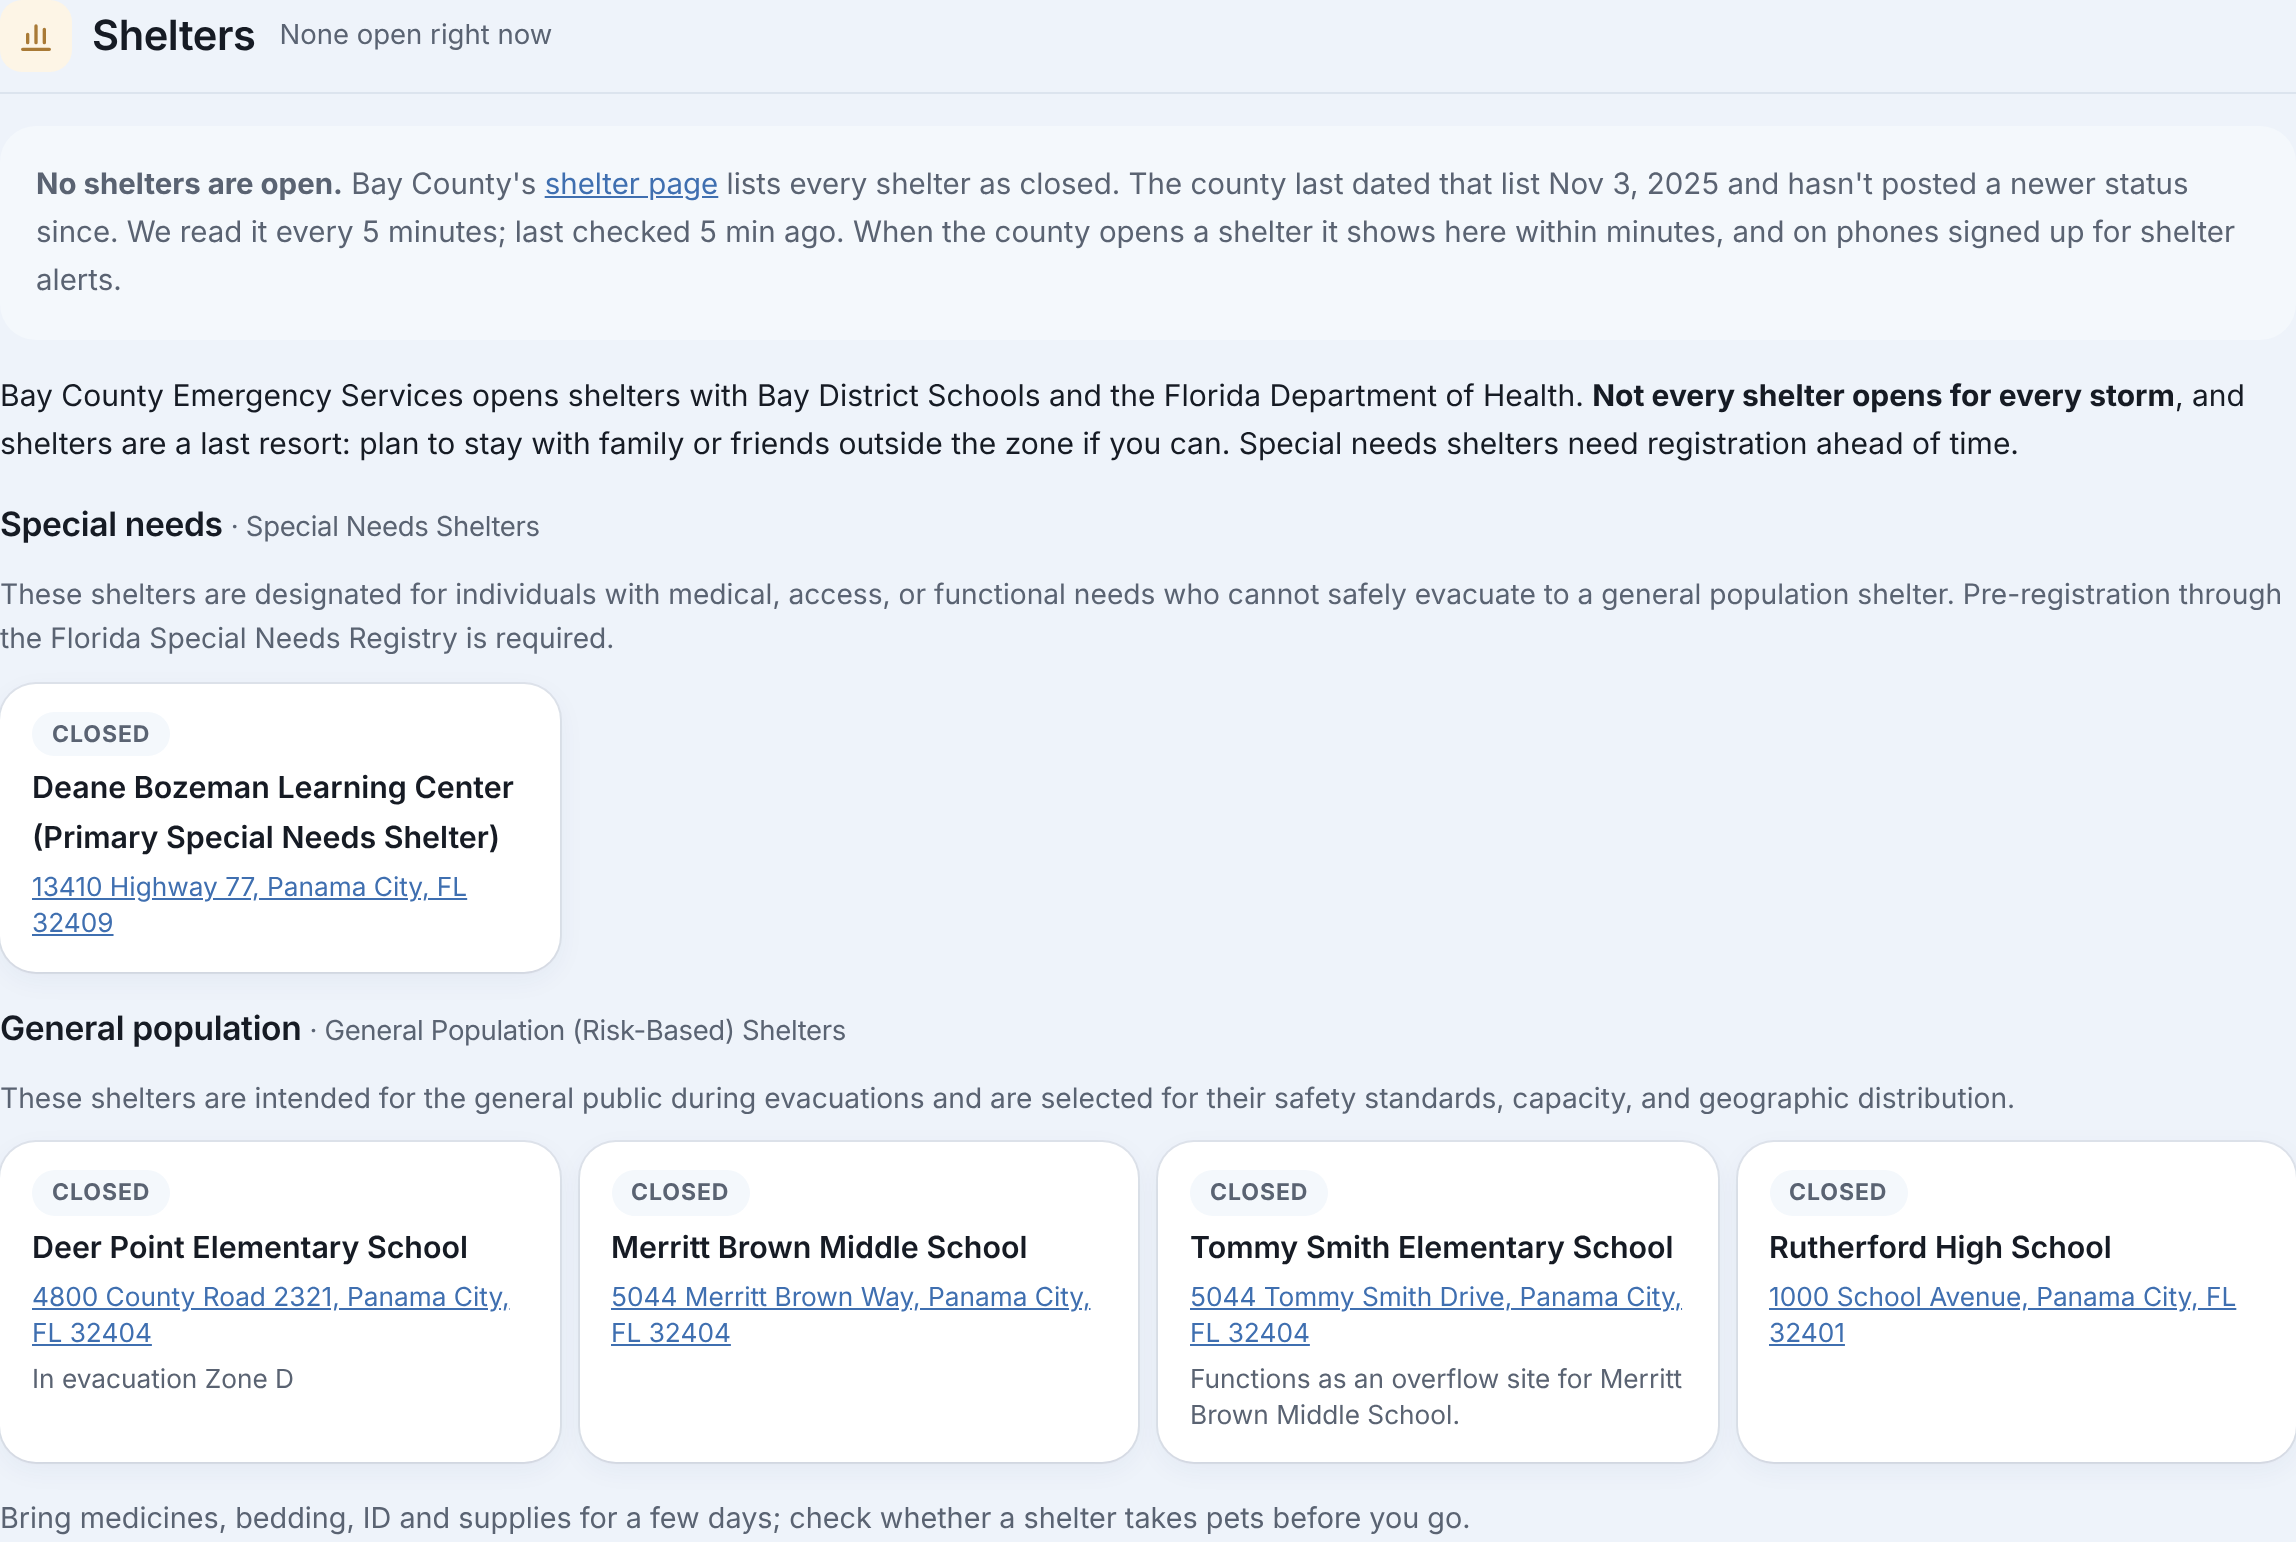
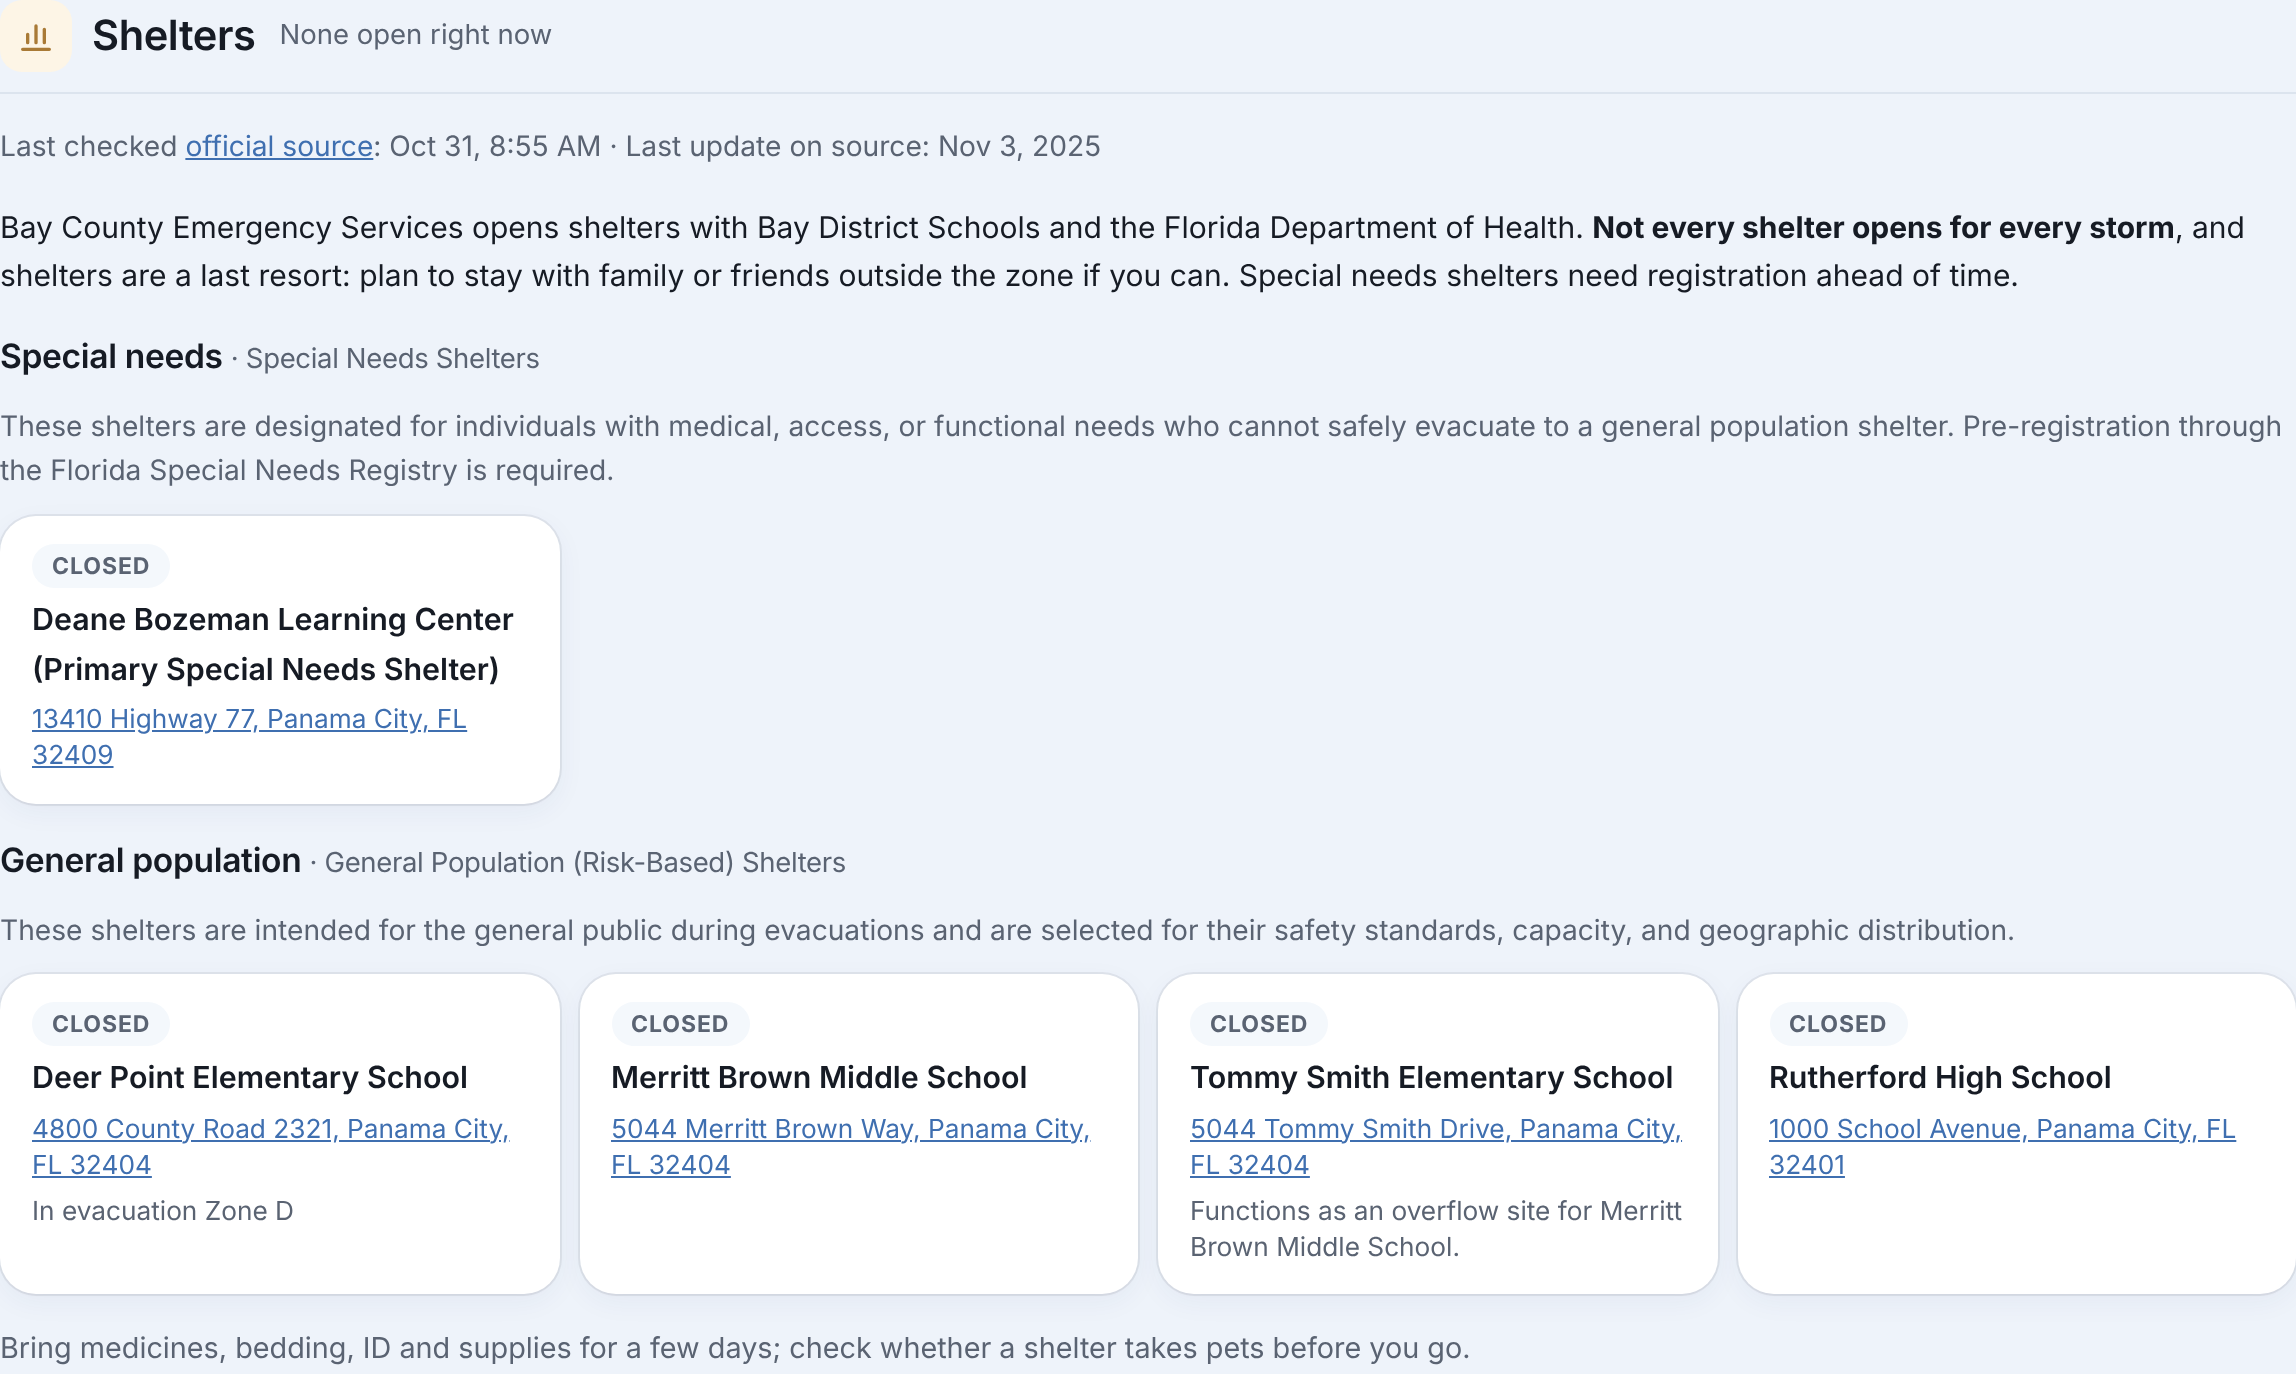
Shelters: shorten the status line to last checked / last update on source
Claude-Session: https://claude.ai/code/session_01HUBaQtrtvT3eSNBeuJmk81

diff --git a/site/public/emergency/index.html b/site/public/emergency/index.html
@@ -181,7 +181,7 @@
     <p class="note">Road closures cover state roads (FL511) and the closures cities post. City and county notices stay listed while their alert center lists them; news posts about storms and closures stay for 10 days.</p></section>
 
   <section class="tx-sec"><div class="sec-hd"><span class="ui-ti t-amber"><span class="ico i-chart" aria-hidden="true"></span></span><h2 id="shelters" data-tile="Shelters">Shelters</h2><span class="muted" id="shHead">None open right now</span></div>
-    <p class="em-empty" id="shLine"><b>No shelters are open.</b> Bay County's <a href="https://www.baycountyfl.gov/766/Emergency-Shelters" target="_blank" rel="noopener">shelter page</a> lists every shelter as closed. The county last dated that list Nov 3, 2025 and hasn't posted a newer status since. We read it every 5 minutes; last checked Oct 30, 2026. When the county opens a shelter it shows here within minutes, and on phones signed up for shelter alerts.</p>
+    <p class="muted" id="shLine" style="margin:0;font-size:.88rem">Last checked <a href="https://www.baycountyfl.gov/766/Emergency-Shelters" target="_blank" rel="noopener">official source</a>: Oct 30, 2026 · Last update on source: Nov 3, 2025</p>
     <p>Bay County Emergency Services opens shelters with Bay District Schools and the Florida Department of Health. <b>Not every shelter opens for every storm</b>, and shelters are a last resort: plan to stay with family or friends outside the zone if you can. Special needs shelters need registration ahead of time.</p>
     <div class="em-shg"><h3 class="ch-grp" style="margin:0">Special needs <span class="muted" style="font-weight:400;font-size:.86rem">· Special Needs Shelters</span></h3><p class=muted style=font-size:.88rem;margin:0>These shelters are designated for individuals with medical, access, or functional needs who cannot safely evacuate to a general population shelter. Pre-registration through the Florida Special Needs Registry is required.</p><div class="em-shs"><div class="em-sh" data-id="deane-bozeman-learning-center-primary-special-needs-shelter"><span class="em-pill">closed</span>
   <b>Deane Bozeman Learning Center (Primary Special Needs Shelter)</b><small><a href="https://www.google.com/maps/search/?api=1&amp;query=13410 Highway 77, Panama City, FL 32409" target="_blank" rel="noopener">13410 Highway 77, Panama City, FL 32409</a></small>
@@ -319,20 +319,12 @@
   function shelterLine(d) {
     const head = $('shHead'), line = $('shLine'), S = d.shelters || [];
     if (!head || !line || !S.length) return;
-    const src = `<a href="${esc(S[0].source_url)}" target="_blank" rel="noopener">shelter page</a>`;
-    const seen = ` We read it every 5 minutes; last checked ${ago(d.checked_at)}.`;
     const open = S.filter(s => s.status === 'open'), dates = S.map(s => s.status_as_of).filter(Boolean).sort();
-    if (!open.length) {
-      head.textContent = 'None open right now';
-      line.innerHTML = `<b>No shelters are open.</b> Bay County's ${src} lists every shelter as closed.` +
-        (dates.length ? ` The county last dated that list ${day(dates[dates.length - 1])} and hasn't posted a newer status since.` : '') + seen +
-        ' When the county opens a shelter it shows here within minutes, and on phones signed up for shelter alerts.';
-      return;
-    }
-    const od = open.map(s => s.status_as_of).filter(Boolean).sort(), old = od.filter(x => (Date.now() - Date.parse(x)) / 864e5 > STALE);
-    head.textContent = `${open.length} open`;
-    line.innerHTML = `<b>${open.length} shelter${open.length > 1 ? 's' : ''} open</b> on Bay County's ${src}, as of ${od.length ? day(od[od.length - 1]) : 'its last update'}.${seen}` +
-      (old.length ? ` The county's page has listed ${old.length > 1 ? 'these' : 'this'} as open since ${day(old[0])} without a newer update; call the Citizens Information Center at <a href="tel:850-248-6090">850-248-6090</a> before you go.` : '');
+    const t = new Date(d.checked_at).toLocaleString('en-US', {month: 'short', day: 'numeric', hour: 'numeric', minute: '2-digit', timeZone: 'America/Chicago'});
+    const old = open.some(s => s.status_as_of && (Date.now() - Date.parse(s.status_as_of)) / 864e5 > STALE);
+    head.textContent = open.length ? `${open.length} open` : 'None open right now';
+    line.innerHTML = `Last checked <a href="${esc(S[0].source_url)}" target="_blank" rel="noopener">official source</a>: ${t} · Last update on source: ${dates.length ? day(dates[dates.length - 1]) : 'not dated'}` +
+      (old ? ' · Call <a href="tel:850-248-6090">850-248-6090</a> to confirm before you go' : '');
   }
   const load = () => fetch('/api/v1/emergency').then(r => r.ok ? r.json() : Promise.reject(r.status)).then(render)
     .catch(() => { $('emSub').textContent = "Couldn't reach the live feed. The list below is from the last daily check."; });

diff --git a/site/emergency_page.py b/site/emergency_page.py
@@ -172,20 +172,12 @@ JS = r"""
   function shelterLine(d) {
     const head = $('shHead'), line = $('shLine'), S = d.shelters || [];
     if (!head || !line || !S.length) return;
-    const src = `<a href="${esc(S[0].source_url)}" target="_blank" rel="noopener">shelter page</a>`;
-    const seen = ` We read it every 5 minutes; last checked ${ago(d.checked_at)}.`;
     const open = S.filter(s => s.status === 'open'), dates = S.map(s => s.status_as_of).filter(Boolean).sort();
-    if (!open.length) {
-      head.textContent = 'None open right now';
-      line.innerHTML = `<b>No shelters are open.</b> Bay County's ${src} lists every shelter as closed.` +
-        (dates.length ? ` The county last dated that list ${day(dates[dates.length - 1])} and hasn't posted a newer status since.` : '') + seen +
-        ' When the county opens a shelter it shows here within minutes, and on phones signed up for shelter alerts.';
-      return;
-    }
-    const od = open.map(s => s.status_as_of).filter(Boolean).sort(), old = od.filter(x => (Date.now() - Date.parse(x)) / 864e5 > STALE);
-    head.textContent = `${open.length} open`;
-    line.innerHTML = `<b>${open.length} shelter${open.length > 1 ? 's' : ''} open</b> on Bay County's ${src}, as of ${od.length ? day(od[od.length - 1]) : 'its last update'}.${seen}` +
-      (old.length ? ` The county's page has listed ${old.length > 1 ? 'these' : 'this'} as open since ${day(old[0])} without a newer update; call the Citizens Information Center at <a href="tel:850-248-6090">850-248-6090</a> before you go.` : '');
+    const t = new Date(d.checked_at).toLocaleString('en-US', {month: 'short', day: 'numeric', hour: 'numeric', minute: '2-digit', timeZone: 'America/Chicago'});
+    const old = open.some(s => s.status_as_of && (Date.now() - Date.parse(s.status_as_of)) / 864e5 > STALE);
+    head.textContent = open.length ? `${open.length} open` : 'None open right now';
+    line.innerHTML = `Last checked <a href="${esc(S[0].source_url)}" target="_blank" rel="noopener">official source</a>: ${t} · Last update on source: ${dates.length ? day(dates[dates.length - 1]) : 'not dated'}` +
+      (old ? ' · Call <a href="tel:850-248-6090">850-248-6090</a> to confirm before you go' : '');
   }
   const load = () => fetch('/api/v1/emergency').then(r => r.ok ? r.json() : Promise.reject(r.status)).then(render)
     .catch(() => { $('emSub').textContent = "Couldn't reach the live feed. The list below is from the last daily check."; });
@@ -391,24 +383,14 @@ def _shelter_status(S, checked=None):
     the line says what is open now, when we last read the page, and how old the county's own date is."""
     if not S:
         return 'Status as Bay County posts it', ''
-    src = f'<a href="{e(S[0]["source_url"])}" target="_blank" rel="noopener">shelter page</a>'
+    src = f'<a href="{e(S[0]["source_url"])}" target="_blank" rel="noopener">official source</a>'
     checked = checked or S[0].get('checked')
-    seen = f' We read it every 5 minutes; last checked {e(_when(checked))}.' if checked else ' We read it every 5 minutes.'
     dates = sorted({s['status_as_of'] for s in S if s.get('status_as_of')})
-    county_date = _when(dates[-1]) if dates else ''
     opened = [s for s in S if s['status'] == 'open']
-    if not opened:
-        why = (f' The county last dated that list {e(county_date)} and hasn\'t posted a newer status since.' if county_date else '')
-        return ('None open right now',
-                f'<b>No shelters are open.</b> Bay County\'s {src} lists every shelter as closed.{why}{seen} '
-                'When the county opens a shelter it shows here within minutes, and on phones signed up for shelter alerts.')
-    old = [s for s in opened if s.get('status_as_of') and (dt.date.today() - dt.date.fromisoformat(s['status_as_of'][:10])).days > STALE_DAYS]
-    n = len(opened)
-    line = f'<b>{n} shelter{"s" if n != 1 else ""} open</b> on Bay County\'s {src}, as of {e(_when(max(s.get("status_as_of") or "" for s in opened)) or "its last update")}.{seen}'
-    if old:
-        line += (f' The county\'s page has listed {"these" if len(old) > 1 else "this"} as open since {e(_when(min(s["status_as_of"] for s in old)))} without a newer update; '
-                 'call the Citizens Information Center at <a href="tel:850-248-6090">850-248-6090</a> before you go.')
-    return f'{n} open', line
+    line = f'Last checked {src}: {e(_when(checked)) or "every 5 minutes"} · Last update on source: {e(_when(dates[-1])) if dates else "not dated"}'
+    if opened and any((dt.date.today() - dt.date.fromisoformat(s['status_as_of'][:10])).days > STALE_DAYS for s in opened if s.get('status_as_of')):
+        line += ' · Call <a href="tel:850-248-6090">850-248-6090</a> to confirm before you go'
+    return (f'{len(opened)} open' if opened else 'None open right now'), line
 
 
 def emergency_page(out_dir):
@@ -498,7 +480,7 @@ def emergency_page(out_dir):
     <p class="note">Road closures cover state roads (FL511) and the closures cities post. City and county notices stay listed while their alert center lists them; news posts about storms and closures stay for {10} days.</p></section>
 
   <section class="tx-sec"><div class="sec-hd"><h2 id="shelters" data-tile="Shelters">Shelters</h2><span class="muted" id="shHead">{e(sh_head)}</span></div>
-    <p class="em-empty" id="shLine">{sh_line}</p>
+    <p class="muted" id="shLine" style="margin:0;font-size:.88rem">{sh_line}</p>
     <p>Bay County Emergency Services opens shelters with Bay District Schools and the Florida Department of Health. <b>Not every shelter opens for every storm</b>, and shelters are a last resort: plan to stay with family or friends outside the zone if you can. Special needs shelters need registration ahead of time.</p>
     {"".join(groups)}
     <p class="note">Bring medicines, bedding, ID and supplies for a few days; check whether a shelter takes pets before you go.</p></section>
